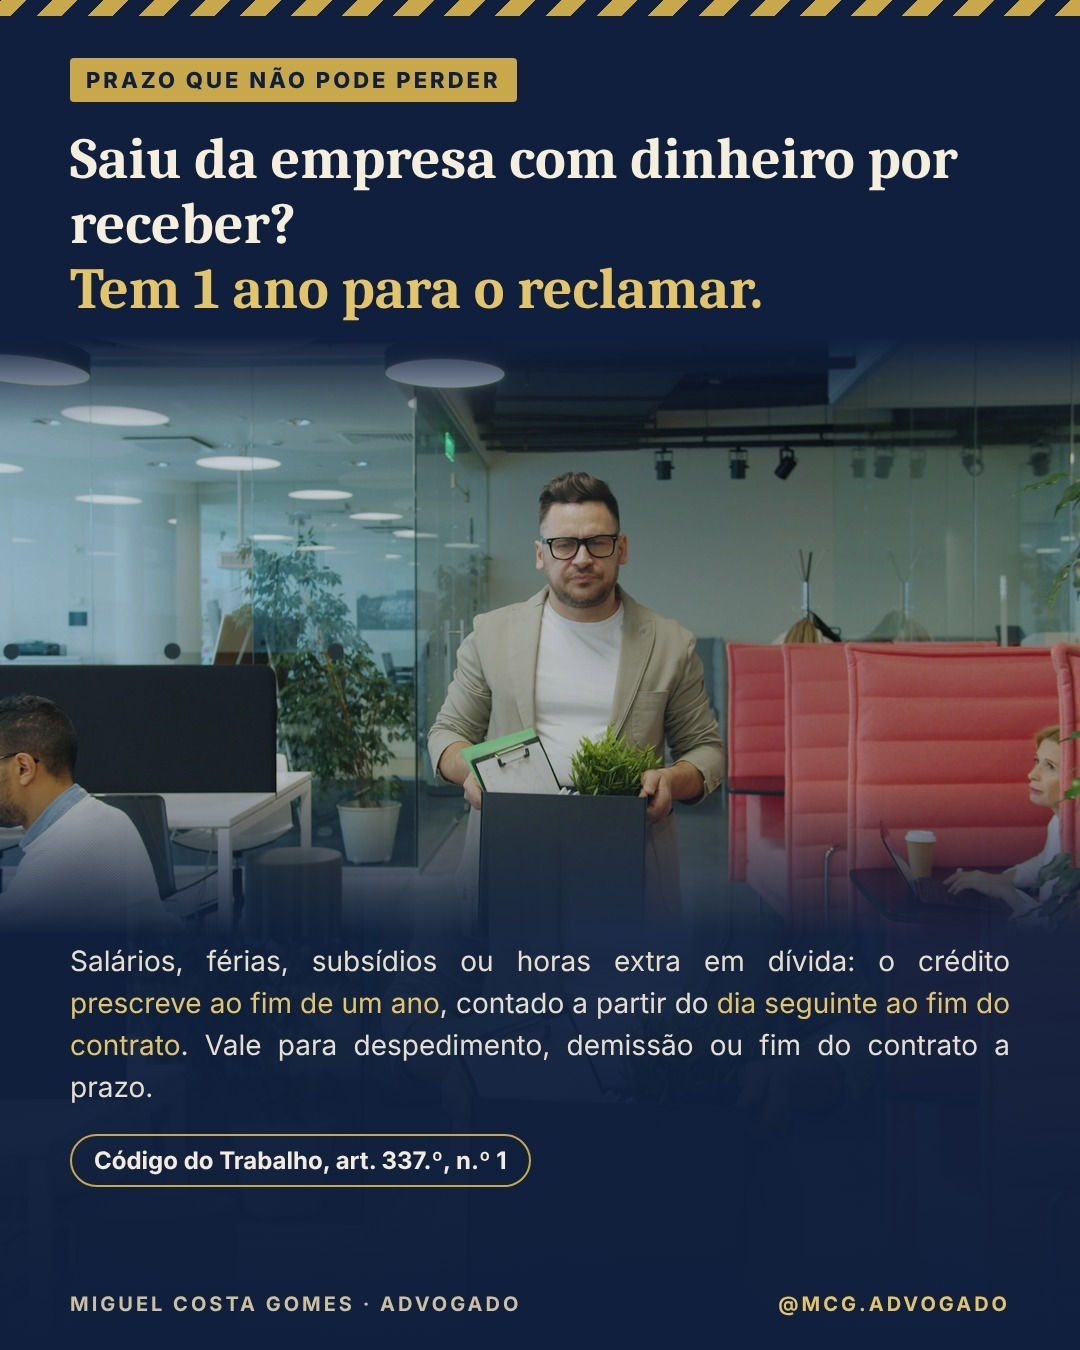
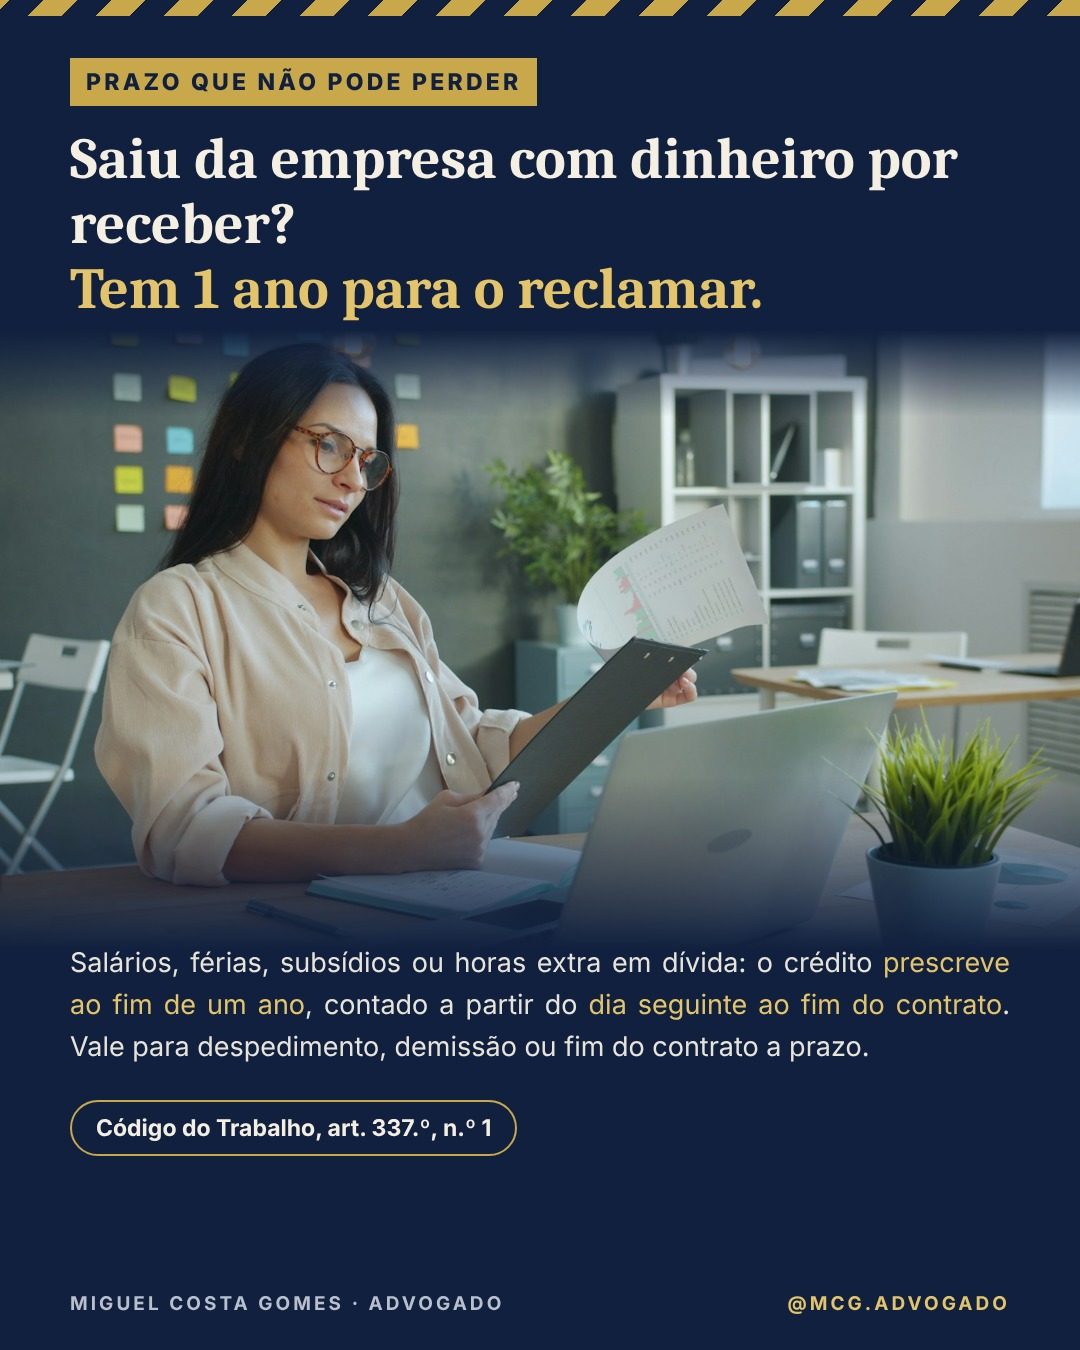
18h e 21h de hoje com fotografias novas (senhora); registo de fotos usadas
Claude-Session: https://claude.ai/code/session_019NeCH7mN9o4yTWT9J7v1M1

diff --git a/fotos/USADAS.md b/fotos/USADAS.md
@@ -1,0 +1,15 @@
+# Fotografias já usadas — NÃO REPETIR
+
+Regra do Dr. Miguel (9 nov. 2026): **nunca repetir fotografias em publicações novas**.
+
+Todas as fotografias do Unsplash já descarregadas estão registadas em `fetch/*.txt`
+(uma linha `nome.jpg URL` por foto). Antes de usar uma fotografia nova:
+
+1. Tira o identificador da imagem do URL devolvido pelo `download_asset`
+   (ex.: `photo-1758876201660-103984519266`).
+2. `grep -l "<identificador>" fetch/*.txt` — se aparecer, essa fotografia JÁ FOI USADA: escolhe outra.
+3. Não reutilizar ficheiros que já estão em `fotos/` em peças novas
+   (exceção: `fotos/miguel-cover.jpg`, a fotografia do próprio Dr. Miguel no diapositivo final).
+
+Evitar também repetir o mesmo modelo (a mesma pessoa) em fotografias diferentes da mesma série
+de fotógrafo. Privilegiar senhoras atraentes, com ar profissional, sempre coerentes com o tema.
